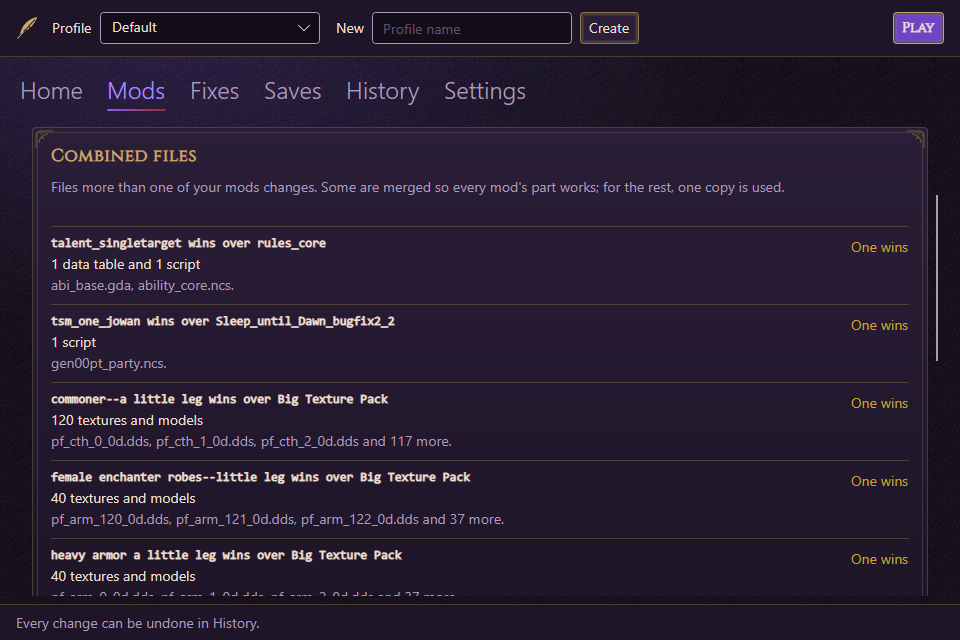
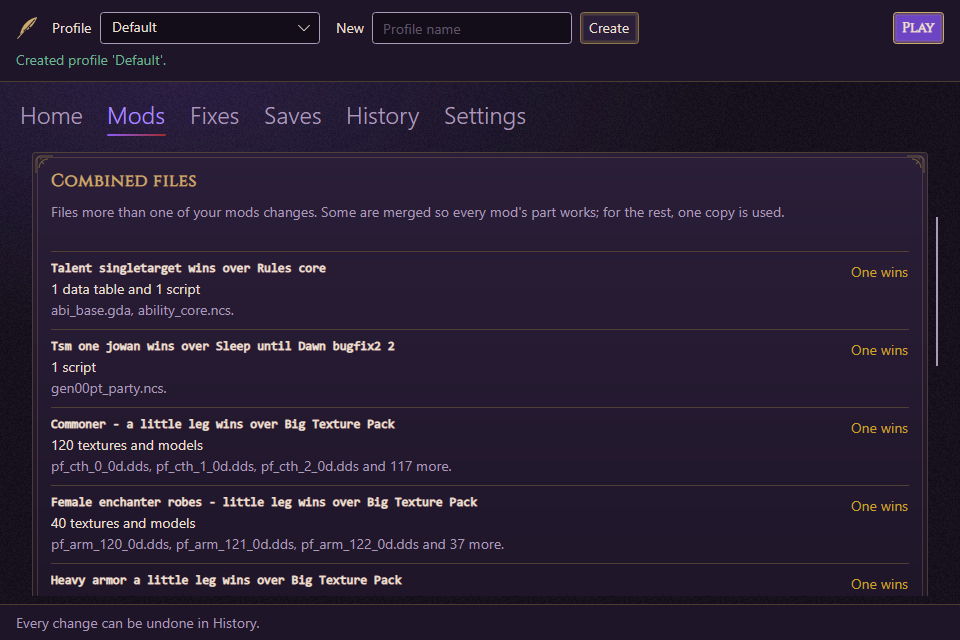
fix(mods): review fixes across the real-scale work (P2.6-16)
An edited placed readme no longer blocks plans, library matching ignores non-mod
files, Arrange and Combined files use the clean names, the cards count overlaps
once per refresh, and a mod's state is known before the library is listed.

diff --git a/src/DAORework.App/ViewModels/LoadOrderViewModel.cs b/src/DAORework.App/ViewModels/LoadOrderViewModel.cs
@@ -5,6 +5,7 @@ using DAORework.Application.Mods.Apply;
 using DAORework.Application.Mods.Changes;
 using DAORework.Application.Profiles;
 using DAORework.Core.Mods.Combining;
+using DAORework.Core.Mods.Library;
 using DAORework.Core.Mods.Planning;
 using Microsoft.Extensions.Logging;
 
@@ -51,6 +52,10 @@ public sealed partial class LoadOrderViewModel : PageViewModel
 
     /// <summary>Gets what <i>Combined files</i> lists: each shared file, or a row for each set of mods once there are too many to read.</summary>
     public ObservableCollection<FileConflictRow> SharedRows { get; } = [];
+
+    /// <summary>Gets how many shared files differ between mods, set once the list is filled so the cards count it once.</summary>
+    [ObservableProperty]
+    public partial int OverlapCount { get; set; }
 
     /// <summary>Gets how many files are combined from several mods' copies (ADR-0025), such as <c>chargenmorphcfg.xml</c>.</summary>
     [ObservableProperty]
@@ -174,9 +179,9 @@ public sealed partial class LoadOrderViewModel : PageViewModel
         }
 
         var details = await _details.ExecuteAsync(plan.TargetModIds, cancellationToken);
-        var names = details.Names;
+        var names = details.Names.ToDictionary(n => n.Key, n => ModDisplayName.For(n.Value), StringComparer.OrdinalIgnoreCase);
         Show(plan.TargetModIds.Select((id, i) => new LoadOrderRow(id, names.TryGetValue(id, out var name) ? name : id, i + 1)).ToList(), plan, names);
-        ShowPacked(details);
+        ShowPacked(details, names);
         IsReordered = !plan.TargetModIds.SequenceEqual(_saved, StringComparer.OrdinalIgnoreCase);
         if (IsReordered)
         {
@@ -189,7 +194,7 @@ public sealed partial class LoadOrderViewModel : PageViewModel
         }
     }
 
-    private void ShowPlan(ModActivationPlan plan, IReadOnlyDictionary<string, string> names)
+    private void ShowPlan(ModActivationPlan plan, Dictionary<string, string> names)
     {
         Preview.NameOf = id => names.TryGetValue(id, out var name) ? name : id;
         Preview.Show(
@@ -198,7 +203,7 @@ public sealed partial class LoadOrderViewModel : PageViewModel
             plan.IsEmpty && !plan.IsBlocked ? "No file changes: none of these mods ships a file another one does, so their order makes no difference." : null);
     }
 
-    private void Show(IReadOnlyList<LoadOrderRow> rows, ModActivationPlan? plan, IReadOnlyDictionary<string, string>? names = null)
+    private void Show(IReadOnlyList<LoadOrderRow> rows, ModActivationPlan? plan, Dictionary<string, string>? names = null)
     {
         Order.Clear();
         foreach (var row in rows)
@@ -217,24 +222,26 @@ public sealed partial class LoadOrderViewModel : PageViewModel
         IsReordered = false;
     }
 
-    private void ShowShared(ModActivationPlan? plan, IReadOnlyDictionary<string, string>? names)
+    private void ShowShared(ModActivationPlan? plan, Dictionary<string, string>? names)
     {
         var groups = Conflicts.Count <= MaxSharedRows
             ? []
-            : SharedFileNotes.Groups(plan?.Conflicts.BetweenMods ?? [], id => names is not null && names.TryGetValue(id, out var name) ? name : id);
+            : SharedFileNotes.Groups(plan?.Conflicts.BetweenMods ?? [], ModActivationPlanWarnings.CombinedAware(id => names is not null && names.TryGetValue(id, out var name) ? name : id));
         SharedRows.Clear();
         foreach (var row in groups.Count > 0 ? groups.Select(FileConflictRow.From) : Conflicts)
         {
             SharedRows.Add(row);
         }
+
+        OverlapCount = Conflicts.Count(c => !c.SameContent);
     }
 
-    private void ShowPacked(LoadOrderDetails details)
+    private void ShowPacked(LoadOrderDetails details, Dictionary<string, string> names)
     {
         PackedConflicts.Clear();
         foreach (var conflict in details.Packed.Take(MaxPackedRows))
         {
-            var mods = string.Join(", ", conflict.ModIds.Select(id => details.Names.TryGetValue(id, out var name) ? name : id));
+            var mods = string.Join(", ", conflict.ModIds.Select(id => names.TryGetValue(id, out var name) ? name : id));
             PackedConflicts.Add(new FileConflictRow(conflict.FileName, "Inside an archive", $"In {mods}. The game uses one copy, and DAORework can't tell which."));
         }
 

diff --git a/src/DAORework.App/ViewModels/SetupSummary.cs b/src/DAORework.App/ViewModels/SetupSummary.cs
@@ -20,7 +20,6 @@ public sealed partial class SetupSummary : ObservableObject
         NotifyCollectionChangedEventHandler changed = (_, _) => Update();
         mods.Library.Mods.CollectionChanged += changed;
         mods.HandInstalled.Candidates.CollectionChanged += changed;
-        mods.LoadOrder.Conflicts.CollectionChanged += changed;
         mods.LoadOrder.PropertyChanged += OnLoadOrderChanged;
         Update();
     }
@@ -35,7 +34,7 @@ public sealed partial class SetupSummary : ObservableObject
 
     private void OnLoadOrderChanged(object? sender, PropertyChangedEventArgs e)
     {
-        if (e.PropertyName == nameof(LoadOrderViewModel.CombinedCount))
+        if (e.PropertyName is nameof(LoadOrderViewModel.CombinedCount) or nameof(LoadOrderViewModel.OverlapCount))
         {
             Update();
         }
@@ -45,7 +44,7 @@ public sealed partial class SetupSummary : ObservableObject
     {
         var library = _mods.Library.Mods;
         var found = _mods.HandInstalled.Candidates;
-        var overlaps = _mods.LoadOrder.Conflicts.Count(c => !c.SameContent);
+        var overlaps = _mods.LoadOrder.OverlapCount;
         var combined = _mods.LoadOrder.CombinedCount;
         SetupPart[] parts =
         [

diff --git a/tests/DAORework.Core.Tests/Mods/NonModFilesTests.cs b/tests/DAORework.Core.Tests/Mods/NonModFilesTests.cs
@@ -60,6 +60,19 @@ public sealed class NonModFilesTests
     }
 
     [Fact]
+    public void Plan_AReadmeEditedAfterItWasPlaced_StaysAndBlocksNothing()
+    {
+        const string target = "packages/core/override/DAORework/hair/readme.txt";
+        var current = DeploymentRecord.Empty with { ActiveModIds = ["hair"], Files = [new RecordedFile(target, "2", "hair")] };
+
+        var plan = ModActivationPlanner.Plan(new PlanInput(current, [Mods.Override("hair", "readme.txt#2")], [], new Dictionary<string, string> { [target] = "edited" }, [])).Value;
+
+        Assert.False(plan.IsBlocked);
+        Assert.Empty(plan.Operations);
+        Assert.Empty(plan.NextRecord.Files);
+    }
+
+    [Fact]
     public void Plan_TurningAModOff_DoesNotExplainItsReadmeGoing()
     {
         const string target = "packages/core/override/DAORework/hair/readme.txt";

diff --git a/src/DAORework.Core/Mods/Adoption/AdoptionLibraryMatcher.cs b/src/DAORework.Core/Mods/Adoption/AdoptionLibraryMatcher.cs
@@ -89,7 +89,7 @@ public static class AdoptionLibraryMatcher
 
         var unused = candidate.Files.ToList();
         var pairs = new List<(LibraryModFile File, string? DiskPath)>();
-        foreach (var file in mod.Files)
+        foreach (var file in mod.Files.Where(f => !NonModFiles.Is(f.RelativePath)))
         {
             var match = unused.FirstOrDefault(f => f.SizeBytes == file.SizeBytes && f.Path.EndsWith("/" + file.RelativePath, StringComparison.OrdinalIgnoreCase))
                 ?? unused.FirstOrDefault(f => f.SizeBytes == file.SizeBytes && FileName(f.Path).Equals(FileName(file.RelativePath), StringComparison.OrdinalIgnoreCase));

diff --git a/src/DAORework.Core/Mods/Planning/ModActivationPlanner.cs b/src/DAORework.Core/Mods/Planning/ModActivationPlanner.cs
@@ -153,8 +153,9 @@ public static class ModActivationPlanner
         {
             state.Operations.Add(new PlanOperation(PlanAction.Delete, recorded.TargetPath, recorded.ModId, null, recorded.Sha256));
         }
-        else
+        else if (!NonModFiles.Is(recorded.TargetPath))
         {
+            // An edited readme is the player's now, and means nothing to the game: it stays, and leaves the record.
             state.Block(PlanBlockerKind.ChangedSinceDeployed, recorded.TargetPath, $"{recorded.TargetPath} was changed after DAORework placed it; it would be removed.");
         }
     }

diff --git a/src/DAORework.App/ViewModels/ModsTabViewModel.cs b/src/DAORework.App/ViewModels/ModsTabViewModel.cs
@@ -87,8 +87,8 @@ public sealed class ModsTabViewModel
     {
         Folders.Load(profileName);
         HandInstalled.Load(profileName);
+        await Activation.LoadAsync(profileName, cancellationToken); // First, so a listed mod's state is known as it is read.
         await Library.LoadAsync(cancellationToken);
-        await Activation.LoadAsync(profileName, cancellationToken);
         await Changes.LoadAsync(profileName, cancellationToken);
         await LoadOrder.LoadAsync(profileName, cancellationToken);
         await HandInstalled.RefreshAsync(cancellationToken);

diff --git a/tests/DAORework.App.Tests/RealScaleScreensTests.cs b/tests/DAORework.App.Tests/RealScaleScreensTests.cs
@@ -32,6 +32,7 @@ public sealed class RealScaleScreensTests : IDisposable
         var order = viewModel.ModsTab.LoadOrder;
         Assert.True(order.Conflicts.Count > MaxRows);
         Assert.InRange(order.SharedRows.Count, 1, MaxRows);
+        Assert.Contains(order.Order, r => r.Name == "Rules core");
         Assert.StartsWith("On now: 66 mods", viewModel.ModsTab.Changes.Summary, StringComparison.Ordinal);
 
         ModsTabScenario.Show<LibraryPanel>(window);
